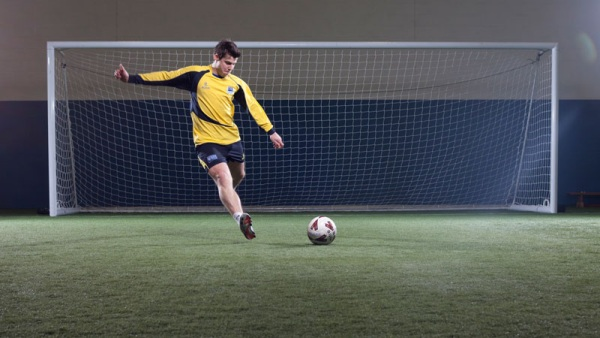
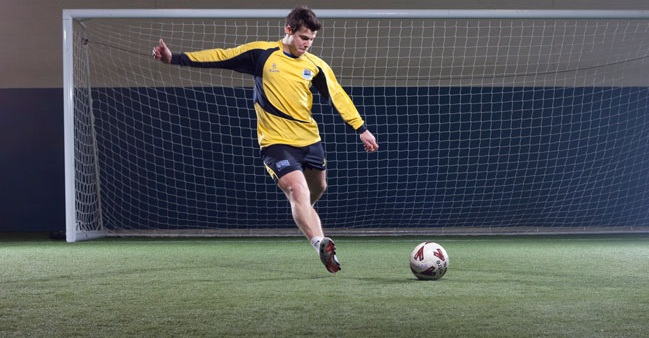
Updated Caroseul on homepage to make it look better

diff --git a/view/home.php b/view/home.php
@@ -28,10 +28,11 @@
 				  <!-- Carousel items -->
 				  <div class="carousel-inner">
 					<div class="active item">
-						<img src="images/caroseul/wattball.jpg" />
+						<img src="images/caroseul/centre.jpg" />
 						<div class='carousel-caption'><h4>Welcome to Riccarton Sports Centre</h4><p>We host many tournaments from WattBall to Hurdling</p></div>
 					</div>
-					<div class="item"><img src="images/caroseul/hurdles.jpg" /></div>
+					<div class="item"><a href='index.php?page=wattBall'><img src="images/caroseul/wattball.jpg" /><div class='carousel-caption'><h4>Wattball</h4><p>Find out more about our Wattball Tournament by Clicking Here</p></div></a></div>
+					<div class="item"><a href='index.php?page=tickets'><img src="images/caroseul/tickets.jpg" /><div class='carousel-caption'><h4>Tickets</h4><p>You can buy tickets for our Tournaments by clicking here</p></div></a></div>
 				  </div>
 				  <!-- Carousel nav -->
 				  <a class="carousel-control left" href="#myCarousel" data-slide="prev">&lsaquo;</a>

diff --git a/view/navbar.php b/view/navbar.php
@@ -3,7 +3,6 @@
     <div class="container">
       <ul class="nav">
             <li <?php if(strcmp($_SESSION['section'],"home") == 0){echo "class='active'";} ?>><a href="index.php">Home</a></li>
-            <li <?php if(strcmp($_SESSION['section'],"aboutus") == 0){ echo "class='active'";} ?>> <a href="index.php?page=aboutUs">About us</a> </li>
             <li <?php if(strcmp($_SESSION['section'],"wattball") == 0){ echo "class='active'";} ?>> <a href="index.php?page=wattBall">WattBall</a> </li>
             <li <?php if(strcmp($_SESSION['section'],"menhurdles") == 0){ echo "class='active'";} ?>> <a href="index.php?page=menHurdles">Men's Hurdles</a> </li>
             <li <?php if(strcmp($_SESSION['section'],"femalehurdles") == 0){ echo "class='active'";} ?>> <a href="index.php?page=femaleHurdles">Female's Hurdles</a> </li>
